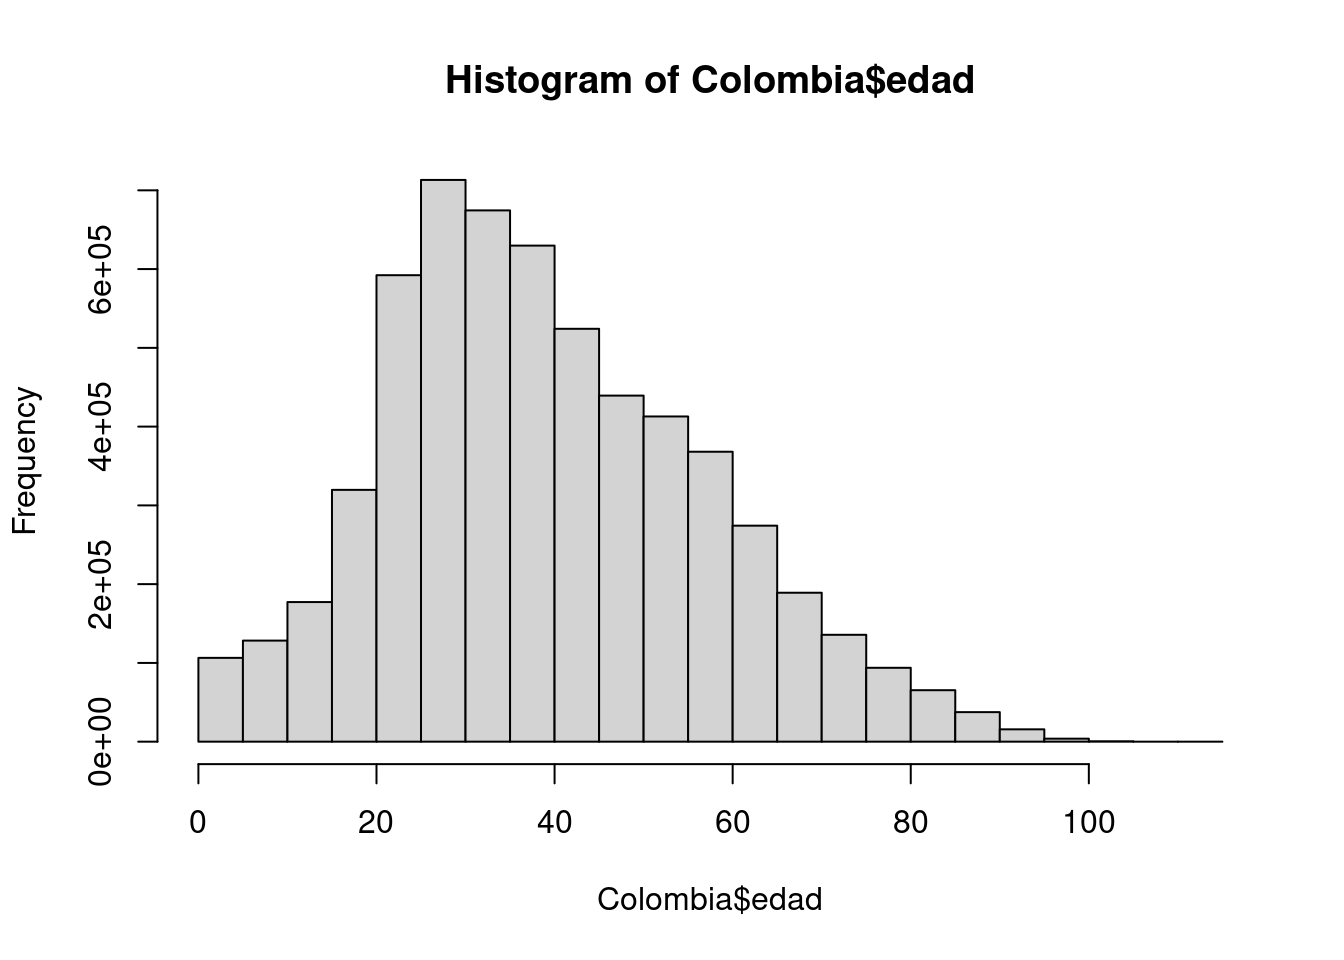
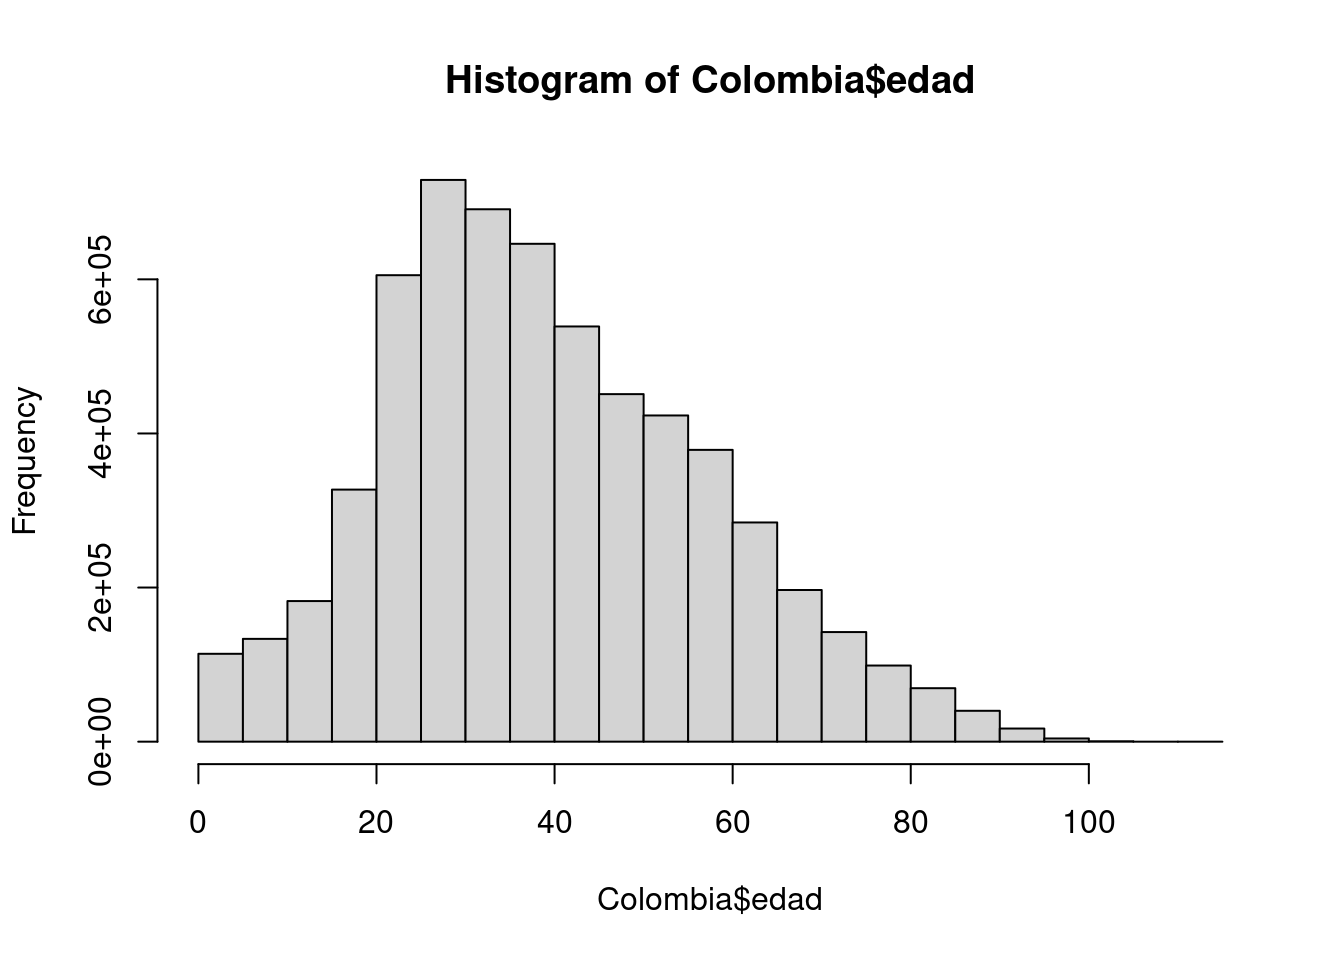
ajustes codigo 101

diff --git a/codigo102.html b/codigo102.html
@@ -633,14 +633,14 @@ summarytools::freq(Colombia$edadR)</code></pre>
 
                                Freq   % Valid   % Valid Cum.   % Total   % Total Cum.
 ------------------------- --------- --------- -------------- --------- --------------
-        1. (0  a 5  años]    106381      1.80           1.80      1.80           1.80
-        2. (5  a 11 años]    160253      2.72           4.52      2.72           4.52
-        3. (11 a 17 años]    239434      4.06           8.57      4.06           8.57
-        4. (17 a 26 años]    958624     16.24          24.82     16.24          24.82
-        5. (26 a 59 años]   3553627     60.21          85.03     60.21          85.03
-      6. (Más de 59 años]    883396     14.97         100.00     14.97         100.00
+        1. (0  a 5  años]    114046      1.88           1.88      1.88           1.88
+        2. (5  a 11 años]    166609      2.74           4.62      2.74           4.62
+        3. (11 a 17 años]    245656      4.04           8.66      4.04           8.66
+        4. (17 a 26 años]    979998     16.13          24.80     16.13          24.80
+        5. (26 a 59 años]   3644266     60.00          84.79     60.00          84.79
+      6. (Más de 59 años]    923580     15.21         100.00     15.21         100.00
                      &lt;NA&gt;         0                               0.00         100.00
-                    Total   5901715    100.00         100.00    100.00         100.00</code></pre>
+                    Total   6074155    100.00         100.00    100.00         100.00</code></pre>
 <p>Esta tabla nos permite identificar los rangos de mayor frecuencia</p>
 <p>Tambien podemo realizar una tabla sin tener que realizar la recodificación. Esto se logra con la función <strong>hist()</strong></p>
 <pre class="r"><code>h=hist(Colombia$edad)</code></pre>
@@ -649,15 +649,15 @@ summarytools::freq(Colombia$edadR)</code></pre>
 <pre><code> [1]   0   5  10  15  20  25  30  35  40  45  50  55  60  65  70  75  80  85  90
 [20]  95 100 105 110 115</code></pre>
 <pre class="r"><code>h$counts   # frecuencias absolutas en cada intervalo</code></pre>
-<pre><code> [1] 106381 128324 177238 319699 592195 713200 674473 629783 524178 439396
-[11] 412857 368071 274235 189107 135687  93819  65393  37494  15713   3863
-[21]    537     60     12</code></pre>
+<pre><code> [1] 114046 133458 182481 327113 605329 729005 690906 646119 538792 451023
+[11] 423349 378686 284520 196842 142256  98804  69414  40097  17033   4225
+[21]    583     62     12</code></pre>
 <pre class="r"><code>h$density  # densidad en cada intervalo</code></pre>
-<pre><code> [1] 3.605088e-03 4.348702e-03 6.006322e-03 1.083411e-02 2.006857e-02
- [6] 2.416925e-02 2.285685e-02 2.134237e-02 1.776358e-02 1.489045e-02
-[11] 1.399109e-02 1.247336e-02 9.293400e-03 6.408544e-03 4.598223e-03
-[16] 3.179381e-03 2.216068e-03 1.270614e-03 5.324893e-04 1.309111e-04
-[21] 1.819810e-05 2.033307e-06 4.066615e-07</code></pre>
+<pre><code> [1] 3.755123e-03 4.394290e-03 6.008441e-03 1.077065e-02 1.993130e-02
+ [6] 2.400350e-02 2.274904e-02 2.127437e-02 1.774048e-02 1.485056e-02
+[11] 1.393935e-02 1.246876e-02 9.368217e-03 6.481297e-03 4.683977e-03
+[16] 3.253259e-03 2.285552e-03 1.320249e-03 5.608352e-04 1.391140e-04
+[21] 1.919609e-05 2.041436e-06 3.951167e-07</code></pre>
 <p>Seria de interés tambien construir una tabla con las edades de las personas fallecidas por covid en Colombia, para lo cual debemos primero seleccionar la base de datos de las fallecidas y luego en ello construir la tabla</p>
 <p>En este caso vamos a seleccionar los rangos de edad y luego construimos la tabla</p>
 <pre class="r"><code>Fallecidos=subset(Colombia, estado==&quot;fallecido&quot;)
@@ -668,19 +668,19 @@ summarytools::freq(Edad.fallecidos)</code></pre>
 
                     Freq     % Valid   % Valid Cum.     % Total   % Total Cum.
 --------------- -------- ----------- -------------- ----------- --------------
-         (0,10]      162     0.12040        0.12040     0.12040        0.12040
-        (10,20]      264     0.19621        0.31661     0.19621        0.31661
-        (20,30]     1776     1.31996        1.63657     1.31995        1.63655
-        (30,40]     4969     3.69305        5.32962     3.69302        5.32958
-        (40,50]    10766     8.00149       13.33110     8.00143       13.33100
-        (50,60]    21300    15.83055       29.16165    15.83043       29.16143
-        (60,70]    31867    23.68413       52.84578    23.68396       52.84539
-        (70,80]    32959    24.49573       77.34151    24.49554       77.34093
-        (80,90]    24201    17.98662       95.32813    17.98649       95.32742
-       (90,100]     6100     4.53363       99.86176     4.53360       99.86102
-      (100,110]      186     0.13824      100.00000     0.13824       99.99926
-           &lt;NA&gt;        1                                0.00074      100.00000
-          Total   134551   100.00000      100.00000   100.00000      100.00000</code></pre>
+         (0,10]      180     0.12932        0.12932     0.12932        0.12932
+        (10,20]      274     0.19686        0.32618     0.19685        0.32618
+        (20,30]     1819     1.30687        1.63304     1.30686        1.63303
+        (30,40]     5032     3.61525        5.24830     3.61523        5.24826
+        (40,50]    10881     7.81748       13.06578     7.81743       13.06569
+        (50,60]    21572    15.49846       28.56424    15.49835       28.56404
+        (60,70]    32537    23.37630       51.94054    23.37613       51.94017
+        (70,80]    34233    24.59479       76.53533    24.59462       76.53478
+        (80,90]    25745    18.49657       95.03190    18.49643       95.03122
+       (90,100]     6706     4.81794       99.84984     4.81791       99.84913
+      (100,110]      209     0.15016      100.00000     0.15016       99.99928
+           &lt;NA&gt;        1                                0.00072      100.00000
+          Total   139189   100.00000      100.00000   100.00000      100.00000</code></pre>
 <p>O tambien</p>
 <pre class="r"><code>h=hist(Colombia$edad, breaks = c(0,4.9, 11.9,17.9,26.9, 59.9,115))</code></pre>
 <p><img src="codigo102_files/figure-html/unnamed-chunk-11-1.png" width="672" /></p>
@@ -693,30 +693,30 @@ FreAbAc=cumsum(FreAbs)
 FreRAc=cumsum(FreRel)
 data.frame(LI,LS,FreAbs,FreRel, FreAbAc, FreRAc)</code></pre>
 <pre><code>    LI    LS  FreAbs FreRel FreAbAc FreRAc
-1  0.0   4.9   84919 0.0144   84919 0.0144
-2  4.9  11.9  181715 0.0308  266634 0.0452
-3 11.9  17.9  239434 0.0406  506068 0.0858
-4 17.9  26.9  958624 0.1624 1464692 0.2482
-5 26.9  59.9 3553627 0.6021 5018319 0.8503
-6 59.9 115.0  883396 0.1497 5901715 1.0000</code></pre>
+1  0.0   4.9   91648 0.0151   91648 0.0151
+2  4.9  11.9  189007 0.0311  280655 0.0462
+3 11.9  17.9  245656 0.0404  526311 0.0866
+4 17.9  26.9  979998 0.1613 1506309 0.2479
+5 26.9  59.9 3644266 0.6000 5150575 0.8479
+6 59.9 115.0  923580 0.1521 6074155 1.0000</code></pre>
 </div>
 <div id="tablas-de-doble-entrada" class="section level2">
 <h2><strong>Tablas de doble entrada</strong></h2>
 <pre class="r"><code>table(Colombia$ubicacion, Colombia$estado)</code></pre>
 <pre><code>              
                fallecido   grave    leve moderado
-  casa                 0       0 5735613        0
-  fallecido       134551       0       0        0
-  hospital             0       0       0     6098
-  hospital uci         0    1357       0        0</code></pre>
+  casa                 0       0 5902872        0
+  fallecido       139189       0       0        0
+  hospital             0       0       0     4763
+  hospital uci         0     842       0        0</code></pre>
 <pre class="r"><code>tabla1=table(Colombia$ubicacion, Colombia$estado)
 prop.table(tabla1)</code></pre>
 <pre><code>              
                   fallecido        grave         leve     moderado
-  casa         0.0000000000 0.0000000000 0.9758395364 0.0000000000
-  fallecido    0.0228920929 0.0000000000 0.0000000000 0.0000000000
-  hospital     0.0000000000 0.0000000000 0.0000000000 0.0010374949
-  hospital uci 0.0000000000 0.0002308758 0.0000000000 0.0000000000</code></pre>
+  casa         0.0000000000 0.0000000000 0.9760578709 0.0000000000
+  fallecido    0.0230153253 0.0000000000 0.0000000000 0.0000000000
+  hospital     0.0000000000 0.0000000000 0.0000000000 0.0007875766
+  hospital uci 0.0000000000 0.0001392273 0.0000000000 0.0000000000</code></pre>
 <p><br/><br/></p>
 </div>
 </div>
@@ -727,10 +727,10 @@ prop.table(tabla1)</code></pre>
 <p>En el caso de las variables cuantitativas debemos de construirlos</p>
 <pre class="r"><code>summary(Colombia$edad)</code></pre>
 <pre><code>   Min. 1st Qu.  Median    Mean 3rd Qu.    Max. 
-   1.00   27.00   37.00   39.65   52.00  114.00 </code></pre>
+   1.00   27.00   37.00   39.73   52.00  114.00 </code></pre>
 <pre class="r"><code>psych::describe(Colombia$edad)</code></pre>
 <pre><code>   vars       n  mean    sd median trimmed   mad min max range skew kurtosis
-X1    1 5901715 39.65 18.07     37   38.86 17.79   1 114   113 0.41    -0.17
+X1    1 6074155 39.73 18.18     37   38.94 17.79   1 114   113 0.41    -0.18
      se
 X1 0.01</code></pre>
 <pre class="r"><code>psych::describe.by(Colombia$edad, group = Colombia$ubicacion)</code></pre>
@@ -738,32 +738,32 @@ X1 0.01</code></pre>
  Descriptive statistics by group 
 group: casa
    vars       n  mean    sd median trimmed   mad min max range skew kurtosis
-X1    1 5735613 38.85 17.47     37   38.16 17.79   1 114   113 0.39    -0.16
+X1    1 5902872 38.92 17.57     37   38.23 17.79   1 114   113 0.38    -0.16
      se
 X1 0.01
 ------------------------------------------------------------ 
 group: fallecido
    vars      n  mean    sd median trimmed   mad min max range  skew kurtosis
-X1    1 134551 67.98 15.39     69   68.87 16.31   1 112   111 -0.55     0.18
+X1    1 139189 68.27 15.44     70    69.2 16.31   1 112   111 -0.57     0.21
      se
 X1 0.04
 ------------------------------------------------------------ 
 group: hospital
-   vars    n  mean    sd median trimmed   mad min max range  skew kurtosis   se
-X1    1 6098 51.63 28.37     58   53.05 32.62   1 101   100 -0.39    -1.12 0.36
+   vars    n mean    sd median trimmed  mad min max range  skew kurtosis   se
+X1    1 4763 49.9 29.71     58      51 34.1   1 101   100 -0.35    -1.27 0.43
 ------------------------------------------------------------ 
 group: hospital uci
-   vars    n  mean    sd median trimmed   mad min max range  skew kurtosis   se
-X1    1 1357 56.96 25.01     64    59.7 20.76   1  97    96 -0.87    -0.24 0.68</code></pre>
+   vars   n  mean   sd median trimmed   mad min max range  skew kurtosis   se
+X1    1 842 53.57 27.5     63   55.97 20.76   1  98    97 -0.76    -0.76 0.95</code></pre>
 <pre class="r"><code>summarytools::descr(Colombia$edad)</code></pre>
 <pre><code>Descriptive Statistics  
 value  
-N: 5901715  
+N: 6074155  
 
                          value
 ----------------- ------------
-             Mean        39.65
-          Std.Dev        18.07
+             Mean        39.73
+          Std.Dev        18.18
               Min         1.00
                Q1        27.00
            Median        37.00
@@ -774,8 +774,8 @@ N: 5901715
                CV         0.46
          Skewness         0.41
       SE.Skewness         0.00
-         Kurtosis        -0.17
-          N.Valid   5901715.00
+         Kurtosis        -0.18
+          N.Valid   6074155.00
         Pct.Valid       100.00</code></pre>
 <p><br/><br/> <strong>YA ESTAMOS LISTOS PARA INTERPRETAR LA INFORMACION</strong></p>
 </div>

diff --git a/codigo101.html b/codigo101.html
@@ -617,54 +617,48 @@ data(cars)  # data set cars</code></pre>
  Mean   :15.4   Mean   : 42.98  
  3rd Qu.:19.0   3rd Qu.: 56.00  
  Max.   :25.0   Max.   :120.00  </code></pre>
-<pre><code> fecha_reporte_web  id_de_caso        fecha_de_notificaci_n departamento      
- Min.   :NA        Length:5901715     Min.   :NA            Length:5901715    
- 1st Qu.:NA        Class :character   1st Qu.:NA            Class :character  
- Median :NA        Mode  :character   Median :NA            Mode  :character  
- Mean   :NA                           Mean   :NA                              
- 3rd Qu.:NA                           3rd Qu.:NA                              
- Max.   :NA                           Max.   :NA                              
- NA&#39;s   :5901715                      NA&#39;s   :5901715                         
+<pre><code> fecha_reporte_web   id_de_caso        fecha_de_notificaci_n departamento      
+ Length:6074155     Length:6074155     Length:6074155        Length:6074155    
+ Class :character   Class :character   Class :character      Class :character  
+ Mode  :character   Mode  :character   Mode  :character      Mode  :character  
+                                                                               
+                                                                               
+                                                                               
  departamento_nom   ciudad_municipio   ciudad_municipio_nom      edad       
- Length:5901715     Length:5901715     Length:5901715       Min.   :  1.00  
+ Length:6074155     Length:6074155     Length:6074155       Min.   :  1.00  
  Class :character   Class :character   Class :character     1st Qu.: 27.00  
  Mode  :character   Mode  :character   Mode  :character     Median : 37.00  
-                                                            Mean   : 39.65  
+                                                            Mean   : 39.73  
                                                             3rd Qu.: 52.00  
                                                             Max.   :114.00  
-                                                                            
  unidad_medida          sexo           fuente_tipo_contagio  ubicacion        
- Length:5901715     Length:5901715     Length:5901715       Length:5901715    
+ Length:6074155     Length:6074155     Length:6074155       Length:6074155    
  Class :character   Class :character   Class :character     Class :character  
  Mode  :character   Mode  :character   Mode  :character     Mode  :character  
                                                                               
                                                                               
                                                                               
-                                                                              
-    estado           recuperado        fecha_inicio_sintomas fecha_diagnostico
- Length:5901715     Length:5901715     Min.   :NA            Min.   :NA       
- Class :character   Class :character   1st Qu.:NA            1st Qu.:NA       
- Mode  :character   Mode  :character   Median :NA            Median :NA       
-                                       Mean   :NA            Mean   :NA       
-                                       3rd Qu.:NA            3rd Qu.:NA       
-                                       Max.   :NA            Max.   :NA       
-                                       NA&#39;s   :5901715       NA&#39;s   :5901715  
- fecha_recuperado  tipo_recuperacion    per_etn_          nom_grupo_       
- Min.   :NA        Length:5901715     Length:5901715     Length:5901715    
- 1st Qu.:NA        Class :character   Class :character   Class :character  
- Median :NA        Mode  :character   Mode  :character   Mode  :character  
- Mean   :NA                                                                
- 3rd Qu.:NA                                                                
- Max.   :NA                                                                
- NA&#39;s   :5901715                                                           
-  fecha_muerte     pais_viajo_1_cod   pais_viajo_1_nom  
- Min.   :NA        Length:5901715     Length:5901715    
- 1st Qu.:NA        Class :character   Class :character  
- Median :NA        Mode  :character   Mode  :character  
- Mean   :NA                                             
- 3rd Qu.:NA                                             
- Max.   :NA                                             
- NA&#39;s   :5901715                                        </code></pre>
+    estado           recuperado        fecha_inicio_sintomas fecha_diagnostico 
+ Length:6074155     Length:6074155     Length:6074155        Length:6074155    
+ Class :character   Class :character   Class :character      Class :character  
+ Mode  :character   Mode  :character   Mode  :character      Mode  :character  
+                                                                               
+                                                                               
+                                                                               
+ fecha_recuperado   tipo_recuperacion    per_etn_          nom_grupo_       
+ Length:6074155     Length:6074155     Length:6074155     Length:6074155    
+ Class :character   Class :character   Class :character   Class :character  
+ Mode  :character   Mode  :character   Mode  :character   Mode  :character  
+                                                                            
+                                                                            
+                                                                            
+ fecha_muerte       pais_viajo_1_cod   pais_viajo_1_nom  
+ Length:6074155     Length:6074155     Length:6074155    
+ Class :character   Class :character   Class :character  
+ Mode  :character   Mode  :character   Mode  :character  
+                                                         
+                                                         
+                                                         </code></pre>
 <p>Por otro lado la función <em>View()</em> permite visualizar la base en una ventana de manera separada</p>
 <pre class="r"><code>View(Colombia)  </code></pre>
 <pre class="r"><code>View(iris</code></pre>
@@ -689,8 +683,10 @@ data(cars)  # data set cars</code></pre>
 <p>Para realizar una revisión de una variable cualitativa utilizamos la función <em>table()</em>, la cual construye una tabla de frecuencias</p>
 <pre class="r"><code>table(Colombia$ubicacion)</code></pre>
 <pre><code>
-        casa    fallecido     hospital hospital uci 
-     5735613       134551         6098         1357 </code></pre>
+        casa         Casa         CASA    Fallecido     Hospital Hospital UCI 
+       24337      5878528            7       139189         4763          842 
+         N/A 
+       26489 </code></pre>
 <p>Observemos aparecen valores diferentes para una sola categoría de la variable:</p>
 <ul>
 <li>casa<br />
@@ -723,14 +719,14 @@ library(tidyverse)</code></pre>
 <p>Para verificar los arreglo volvemos a construir la tabla</p>
 <pre class="r"><code>table(Colombia$ubicacion)</code></pre>
 <pre><code>
-        casa    fallecido     hospital hospital uci 
-     5735613       134551         6098         1357 </code></pre>
+        casa    fallecido     hospital hospital uci          n/a 
+     5902872       139189         4763          842        26489 </code></pre>
 <p>Después de esto realizamos en cambio de <em>n/a</em> por <em>NA</em></p>
 <pre class="r"><code>Colombia$ubicacion[Colombia$ubicacion==&quot;n/a&quot;]=NA
 table(Colombia$ubicacion)</code></pre>
 <pre><code>
         casa    fallecido     hospital hospital uci 
-     5735613       134551         6098         1357 </code></pre>
+     5902872       139189         4763          842 </code></pre>
 <p>Otro problema que presenta la base de datos es que la variable edad es en formato <em>chr</em> y debería ser numérica. Para cambiar el formato utilizamos la función <em>as.numeric()</em> y la guardamos en la misma variable</p>
 <pre class="r"><code>class(Colombia$edad)</code></pre>
 <pre><code>[1] &quot;integer&quot;</code></pre>
@@ -747,15 +743,15 @@ Colombia$recuperado[Colombia$recuperado==&quot;n/a&quot;]=NA</code></pre>
 <pre class="r"><code>table(Colombia$sexo)</code></pre>
 <pre><code>
       f       m 
-3135102 2766613 </code></pre>
+3232079 2842076 </code></pre>
 <pre class="r"><code>table(Colombia$estado)</code></pre>
 <pre><code>
 fallecido     grave      leve  moderado 
-   134551      1357   5735613      6098 </code></pre>
+   139189       842   5902872      4763 </code></pre>
 <pre class="r"><code>table(Colombia$recuperado)</code></pre>
 <pre><code>
     activo  fallecido recuperado 
-     68906     134551    5678249 </code></pre>
+      8402     139189    5904365 </code></pre>
 <p>Finalmente convertimos todas las variables fecha en formado date</p>
 <pre class="r"><code>Colombia$fecha_reporte_web=lubridate::dmy(Colombia$fecha_reporte_web)
 Colombia$fecha_de_notificaci_n=lubridate::dmy(Colombia$fecha_de_notificaci_n)
